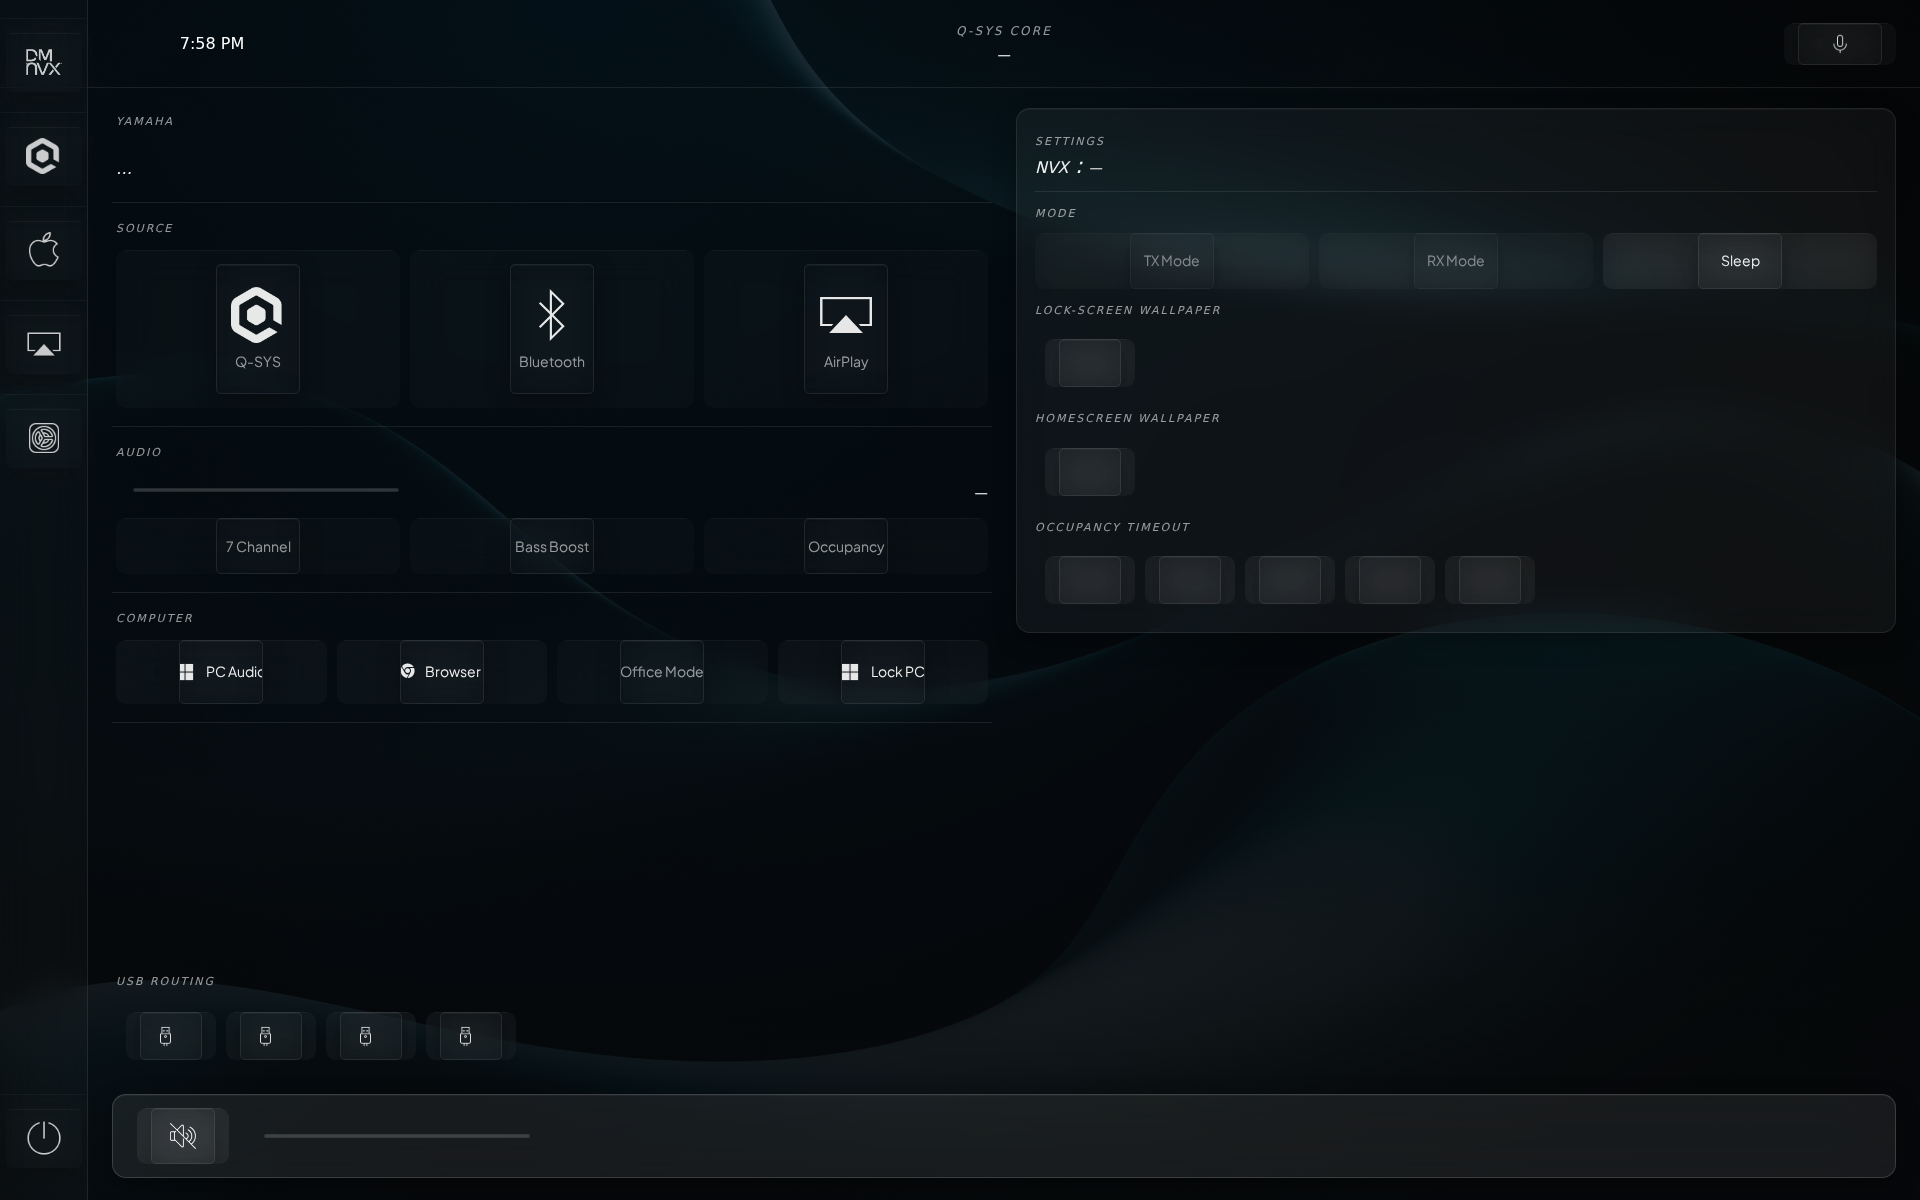
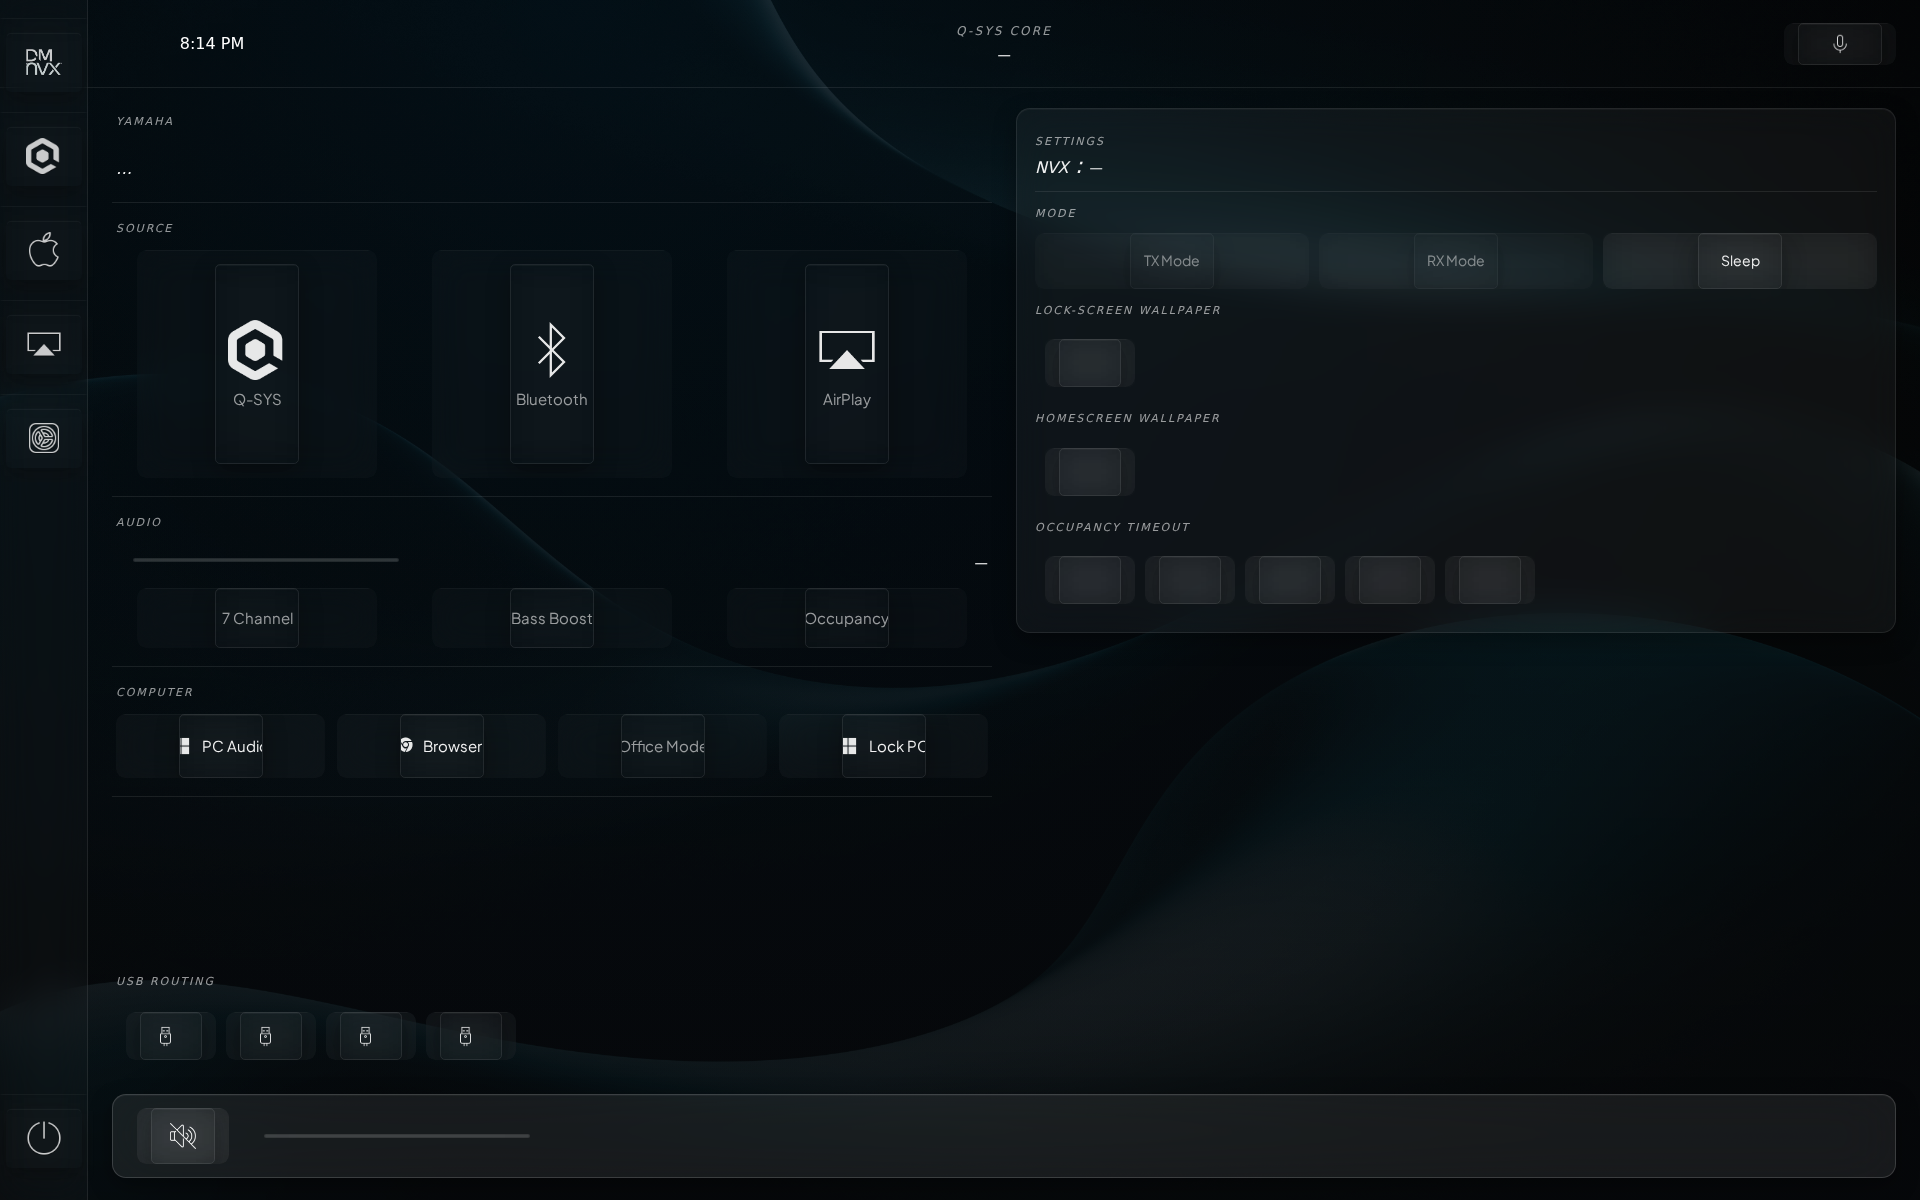
fix: button proportions + bottom volume slider fills the bar
Two related issues from the user's feedback:

1. Buttons looked weirdly long. The 3-up source-mode grid in an 880-px
   column gives each cell ~282 px, which stretched buttons into 282x130
   landscape rectangles. Same problem for toggle pills (282x56) and
   action buttons. Fixed by:
   - max-width on .seg-btn (240), .seg-btn--toggle (240), .action-btn (220)
   - justify-items: center on .seg-3 / .seg-4 grids
   - margin-auto on ch5-buttons inside seg grids (theme-level)
   Result: buttons render at their max-width, centered in their cell.
   Source-mode tiles 200x200 portrait, toggles 240x60, actions 220x64.

2. Bottom volume slider didn't fill the bar. The grid layout (auto 1fr)
   was correct but ch5-slider has internal inline widths that prevent
   flex/grid growth. Switched .mainpage__bottom from grid to flex with
   the slider as flex:1 1 auto + width:auto, plus !important overrides
   on .ch5-slider / .noUi-base / .noUi-target so the inner DOM also
   stretches. Slider now properly spans the remaining width.

https://claude.ai/code/session_01WRb1v93YRqTBmHjK1Eeiv2

diff --git a/app/project/components/pages/mainpage/mainpage.scss b/app/project/components/pages/mainpage/mainpage.scss
@@ -232,22 +232,30 @@
    Segmented control — 3-up and 4-up rows
    Selected segment fills with accent + brighter label. Unselected
    stays as faint glass with hairline-strong border on hover.
+   Cells are centered so wide grid columns don't stretch the button
+   into an awkwardly long rectangle.
    ============================================================ */
 
 .seg-3,
 .seg-4 {
   display: grid;
-  gap: 10px;
+  gap: 12px;
+  justify-items: center;       /* keep cells from stretching button width */
 }
 .seg-3 { grid-template-columns: repeat(3, 1fr); }
 .seg-4 { grid-template-columns: repeat(4, 1fr); }
 
-/* Source-mode tile (icon top, label bottom). Square-ish proportion. */
+.seg-3 > *,
+.seg-4 > * { width: 100%; }    /* fill cell by default */
+
+/* Source-mode tile (icon top, label bottom). Closer to 1:1 / 4:5
+   portrait rectangle so the icon + label feel balanced rather than
+   floating in a wide landscape rectangle. */
 .seg-btn {
-  --ch5-button--regular-height: 130px;
-  --ch5-button--regular-image-width: 56px;
-  --ch5-button--regular-image-height: 56px;
-  --ch5-button--regular-font-size: 14px;
+  --ch5-button--regular-height: 200px;
+  --ch5-button--regular-image-width: 60px;
+  --ch5-button--regular-image-height: 60px;
+  --ch5-button--regular-font-size: 15px;
   --ch5-button--default-background-color: rgba(255, 255, 255, 0.025);
   --ch5-button--default-border-color: var(--hairline);
   --ch5-button--default-label-font-color: var(--text-dim);
@@ -255,26 +263,29 @@
   --ch5-button--default-selected-background-color: rgba(120, 180, 255, 0.16);
   --ch5-button--default-selected-border-color: var(--accent);
   --ch5-button--default-selected-label-font-color: var(--text);
+  max-width: 240px;             /* keeps source tiles from going elongated */
 }
 
-/* Toggle row — shorter, cleaner. Same selected = filled accent pattern. */
+/* Toggle pill — landscape but constrained so it doesn't stretch wide */
 .seg-3--toggles .seg-btn--toggle,
 .seg-btn--toggle {
-  --ch5-button--regular-height: 56px;
-  --ch5-button--regular-font-size: 14px;
+  --ch5-button--regular-height: 60px;
+  --ch5-button--regular-font-size: 15px;
+  max-width: 240px;
 }
 
-/* Action row — uniform 64px height pills with icon on the left */
+/* Action row — 4-up uniform pills with icon-first */
 .action-btn {
   --ch5-button--regular-height: 64px;
   --ch5-button--regular-image-width: 22px;
   --ch5-button--regular-image-height: 22px;
-  --ch5-button--regular-font-size: 14px;
+  --ch5-button--regular-font-size: 15px;
   --ch5-button--default-background-color: rgba(255, 255, 255, 0.03);
   --ch5-button--default-border-color: var(--hairline);
   --ch5-button--default-label-font-color: var(--text);
   --ch5-button--default-selected-background-color: rgba(120, 180, 255, 0.14);
   --ch5-button--default-selected-border-color: var(--accent-soft);
+  max-width: 220px;
 }
 
 /* USB strip */
@@ -305,7 +316,7 @@
 }
 
 /* ============================================================
-   BOTTOM BAR — Construct-style: mute on left, slider full-width
+   BOTTOM BAR — mute on left, slider stretches the full remaining width
    ============================================================ */
 
 .mainpage__bottom {
@@ -314,10 +325,9 @@
   right: 24px;
   bottom: 22px;
   height: 84px;
-  display: grid;
-  grid-template-columns: auto 1fr;     /* mute | full-width slider */
-  gap: 18px;
+  display: flex;                         /* flex so slider grows naturally */
   align-items: center;
+  gap: 18px;
   padding: 0 24px;
 
   .bottom__mute {
@@ -325,12 +335,26 @@
     --ch5-button--regular-height: 56px;
     --ch5-button--regular-image-width: 26px;
     --ch5-button--regular-image-height: 26px;
+    flex-shrink: 0;
   }
 
+  /* Force the slider to fill the rest of the row. The CH5 slider has
+     internal widths set inline that prevent flex growth — override with
+     explicit width:100% + flex:1 + !important on the inner noUi elements. */
   .bottom__volume {
-    width: 100%;
-    --ch5-slider--height: 50px;
+    flex: 1 1 auto;
+    width: auto;
+    min-width: 0;
+    --ch5-slider--height: 56px;
   }
+}
+
+ch5-slider.bottom__volume,
+ch5-slider.bottom__volume .ch5-slider,
+ch5-slider.bottom__volume .noUi-base,
+ch5-slider.bottom__volume .noUi-target {
+  width: 100% !important;
+  max-width: none !important;
 }
 
 /* CH5 receivestateshow handles widget visibility natively. */

diff --git a/app/project/assets/scss/custom-themes/office-v3-theme.css b/app/project/assets/scss/custom-themes/office-v3-theme.css
@@ -366,6 +366,19 @@ ch5-button-list ch5-button {
 }
 
 /* ============================================================
+   Global: keep buttons from stretching to ultra-wide rectangles when
+   they sit in 1fr grid cells. Constrain via max-width + center via
+   margin-auto so 280-px cells don't produce 280×60 awkward stretches.
+   Override per-button-class with explicit max-width if needed.
+   ============================================================ */
+
+.seg-3 ch5-button,
+.seg-4 ch5-button {
+  margin-left: auto;
+  margin-right: auto;
+}
+
+/* ============================================================
    ch5-text / readouts
    ============================================================ */
 
